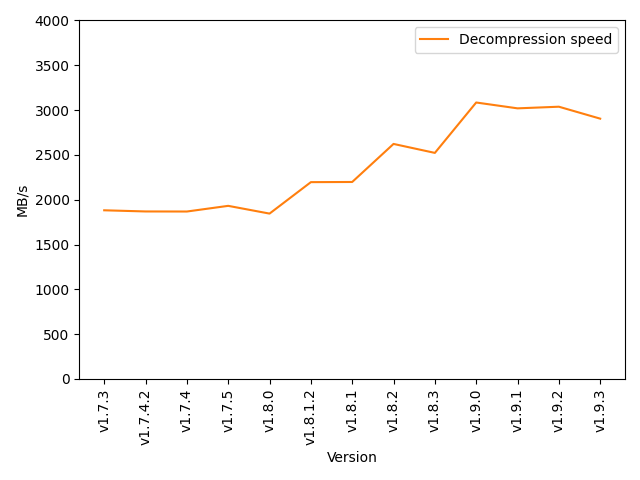
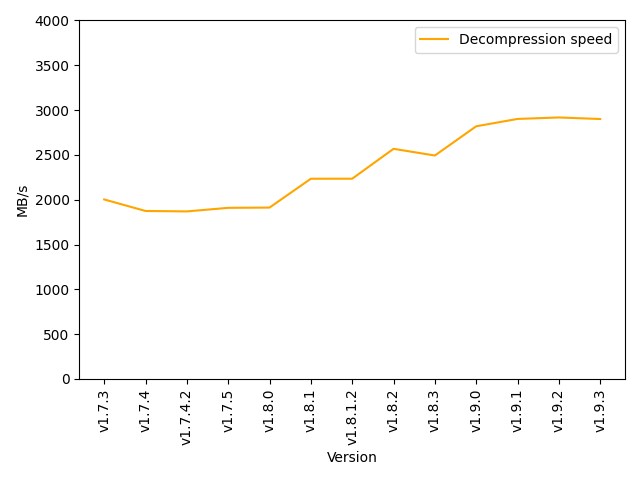
Minor updates to uild script and visualizations

diff --git a/code/visualization/main.py b/code/visualization/main.py
@@ -2,12 +2,12 @@ import csv
 import os
 
 import matplotlib.pyplot as plt
-#from signal_processing_algorithms.energy_statistics import energy_statistics
+from signal_processing_algorithms.energy_statistics import energy_statistics
 import numpy.random
 
 
 def plot_release_data():
-    release_res_dir = "../../results/releases_benchmark/"
+    release_res_dir = "../../release_benchmark/mintime/results"
     labels = []
     compression_speed = []
     decompression_speed = []
@@ -22,21 +22,29 @@ def plot_release_data():
             compression_speed.append(float(line[1]))
             decompression_speed.append(float(line[2]))
 
-    plt.plot(labels, compression_speed,label="Compression speed")
+    decompression_speed.sort(key=dict(zip(decompression_speed,labels)).get)
+    compression_speed.sort(key=dict(zip(compression_speed,labels)).get)
+    labels.sort()
+
+    plt.plot(labels, decompression_speed,label="Decompression speed",color="orange")
     plt.ylabel('MB/s')
     plt.xlabel("Version")
-    plt.ylim([0, 600.0])
+    plt.ylim([0, 4000.0])
     plt.xticks(rotation=90)
+
+    #plt.clf()
+    plt.plot(labels, compression_speed, label="Compression speed")
     plt.legend()
     plt.tight_layout()
-    plt.savefig("compression_plot.png")
+    plt.savefig("releases_plot.png")
 
 
 def plot_commit_data():
-    commit_res_dir = "../../results/commit_benchmark/"
-    commit_hash_file = "../../results/lz4commits_hashs"
+    commit_res_dir = "../../commit_benchmark/mintime/results/"
+    commit_hash_file = "../../benchmark/merge_commits"
     compression_speed = []
     decompression_speed = []
+    labels = []
 
     with open(commit_hash_file) as hash_file:
         for commit_hash in hash_file:
@@ -44,6 +52,7 @@ def plot_commit_data():
                 continue
             with open(os.path.join(commit_res_dir,commit_hash.strip()+".res")) as commit_file:
                 reader = csv.reader(commit_file)
+                labels.append(commit_hash)
                 next(reader)
                 next(reader)
                 line = next(reader)
@@ -59,10 +68,26 @@ def plot_commit_data():
         plt.xlabel("# of commits since v1.8.1")
         plt.ylim([0,4000])
         plt.legend(loc=9)
-        #plt.axvline(x=3,color="r",lw=0.5,ls=":")
-        #plt.axvline(x=313,color="r",lw=0.5, ls=":")
+
+        # Calculate change points based on created data
+        comp_cp = energy_statistics.e_divisive(compression_speed, pvalue=0.1, permutations=100)
+        decomp_cp = energy_statistics.e_divisive(decompression_speed, pvalue=0.1, permutations=100)
+
+        print(comp_cp)
+        print(decomp_cp)
+
+        for cp in comp_cp:
+            plt.vlines(x=cp,color="r",lw=0.5,ls=":",ymin=250,ymax=750)
+
+        # plt.scatter(comp_cp,[compression_speed[cp] for cp in comp_cp],marker='.',c='r')
+        # plt.scatter(decomp_cp,[decompression_speed[cp] for cp in decomp_cp],marker='.',c='r')
+
+        for cp in decomp_cp:
+            plt.vlines(x=cp,color="g",lw=0.5, ls=":",ymax=max(decompression_speed),ymin=min(decompression_speed))
         plt.tight_layout()
-        plt.savefig("commits.png")
+        labels.reverse()
+        print(labels[decompression_speed.index(max(decompression_speed))])
+        plt.show()
 
 
 def create_outlier():
@@ -86,6 +111,6 @@ def create_changepoint():
 
 # Press the green button in the gutter to run the script.
 if __name__ == '__main__':
-    plot_release_data()
+    plot_commit_data()
 
 # See PyCharm help at https://www.jetbrains.com/help/pycharm/
